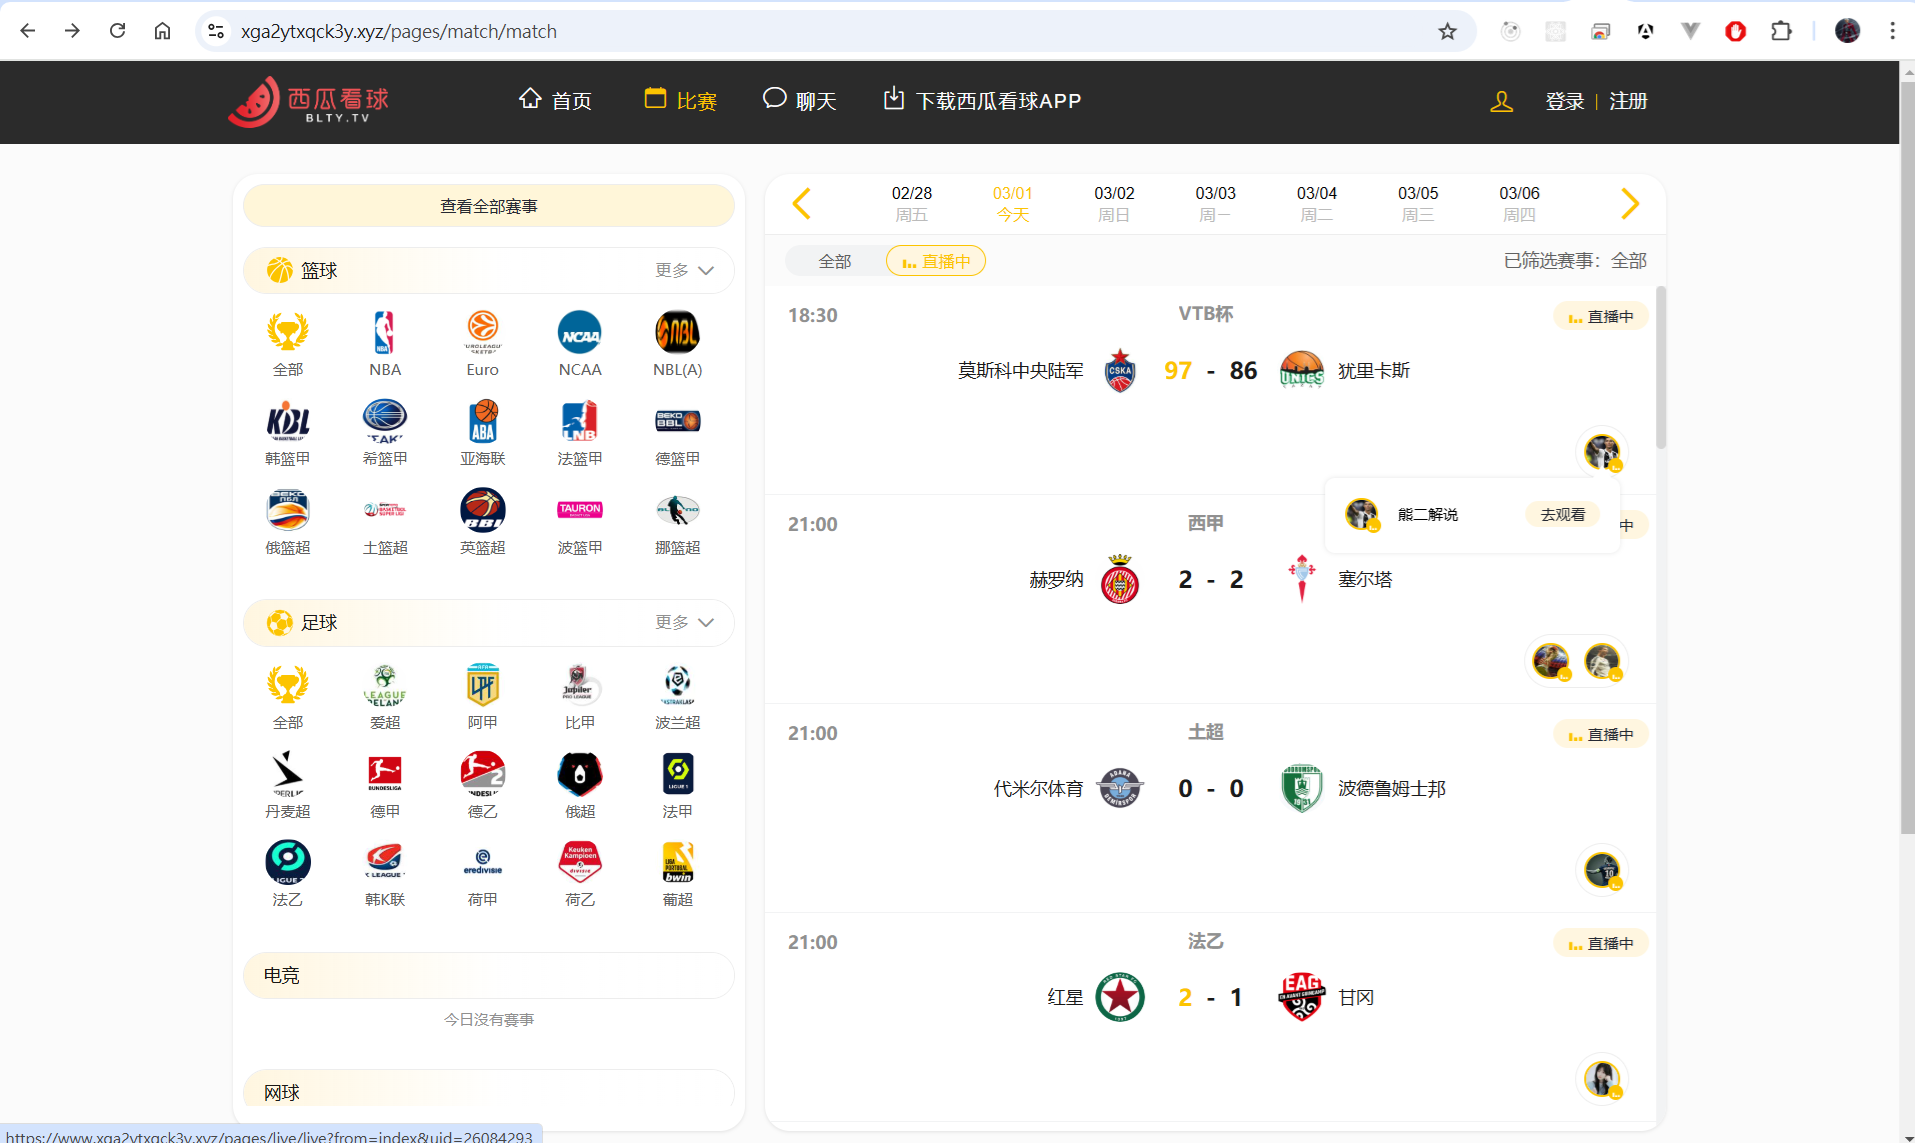
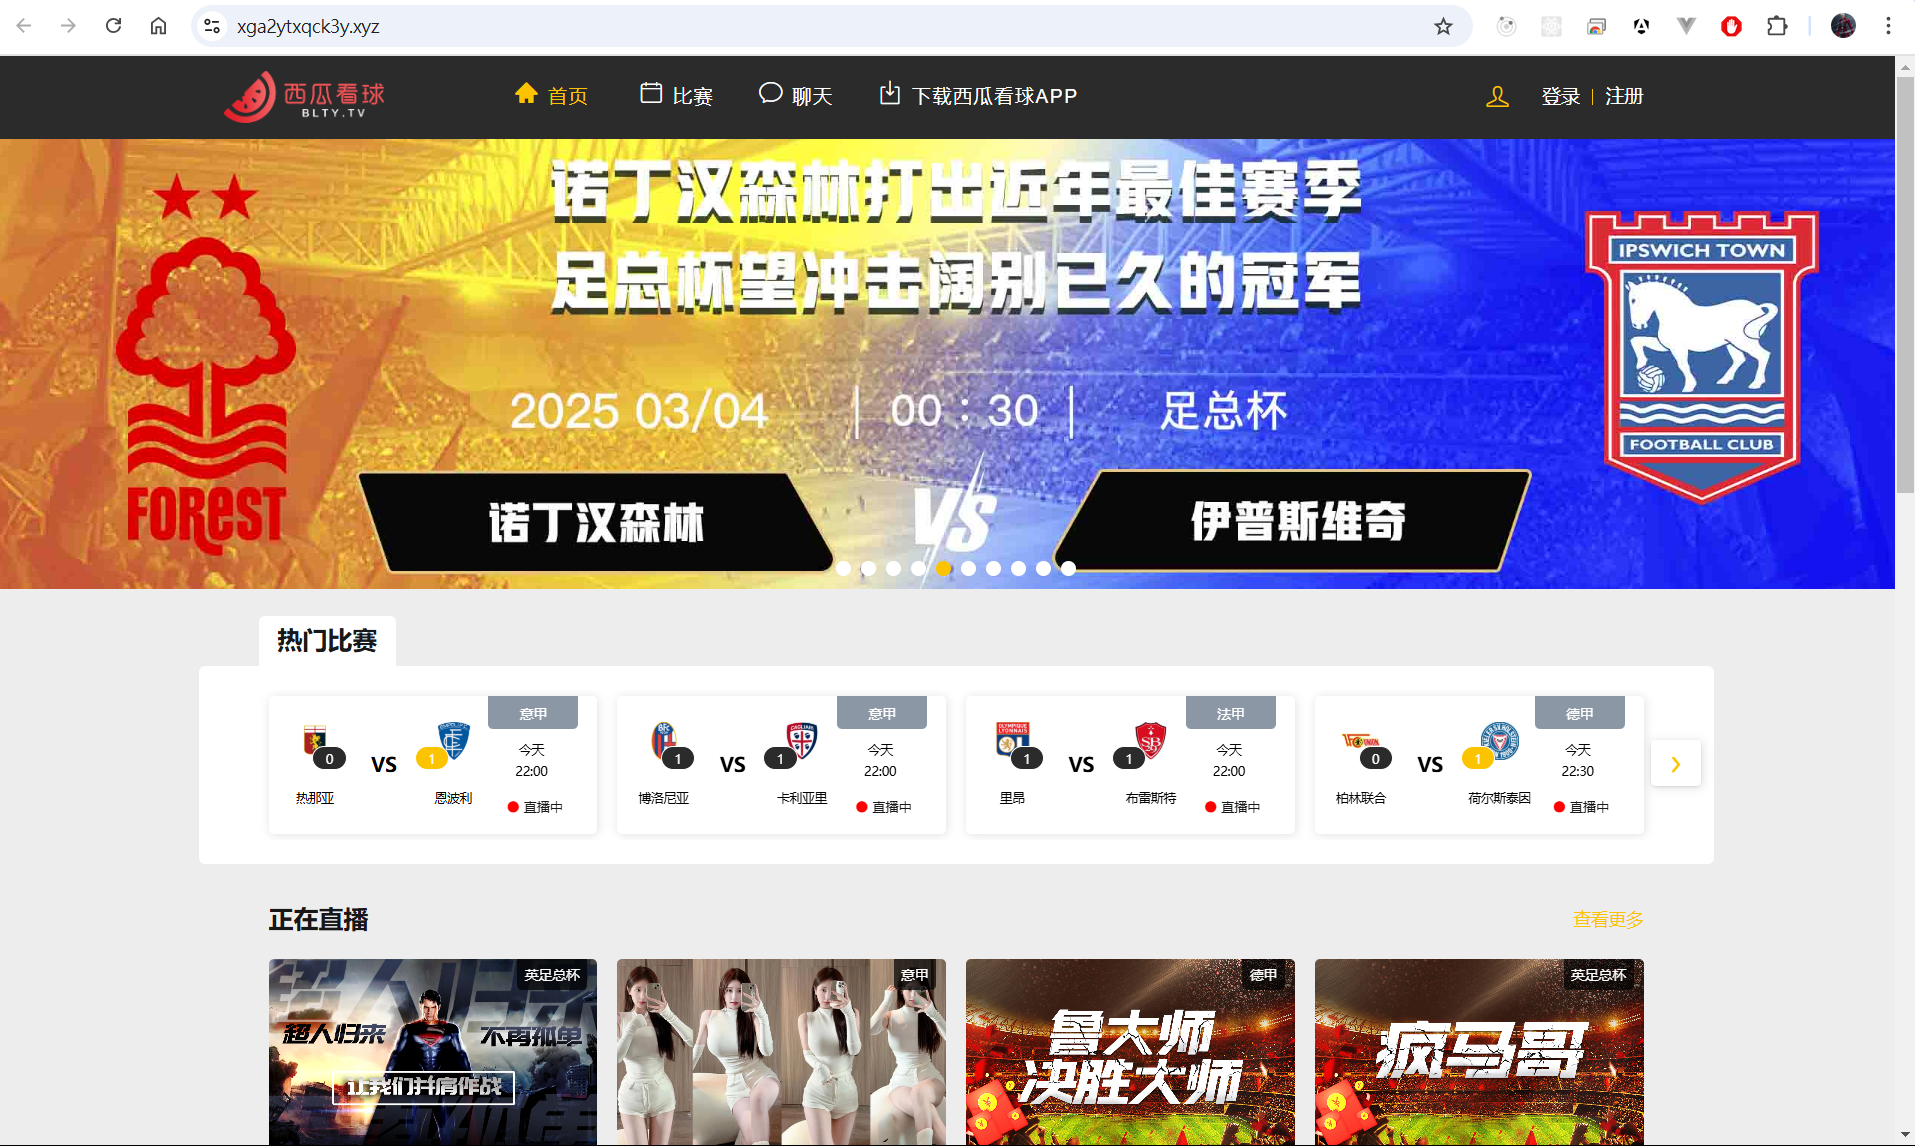
[update]:  sports-streaming-platform update

diff --git a/components/Home/Experience/Work.js b/components/Home/Experience/Work.js
@@ -107,15 +107,26 @@ const EXPERIENCE_DATA = [
     describe: '維護體育賽事直播平台。',
     onLine: [
       {
+        webUrl: 'https://www.xga2ytxqck3y.xyz/',
+        name: '西瓜看球(PC版)'
+      },
+      {
+        webUrl: 'https://m.xga2ytxqck3y.xyz/',
+        name: '西瓜看球(手機版、android版、ios書籤版)'
+      },
+      {
         webUrl: 'https://www.sgss2.com/',
         name: '松果賽事(PC版)'
       },
       {
         webUrl: 'https://m.sgss2.com/',
-        name: '松果賽事(手機版、android版、ios書籤版)',
+        name: '松果賽事(手機版、android版、ios書籤版)'
+      },
+      {
         summary: '本專案並無RWD、android版為uni-app開發。',
-        responsible: '新增及維護既有功能，前端api資料快取，開發團隊共用組件。'
-        // describeLink: '/matsu360'
+        responsible:
+          '適用換皮之架構調整、新增及維護既有功能，前端api資料快取，開發團隊共用組件。',
+        describeLink: '/sports-streaming-platform'
       }
     ]
   },

diff --git a/pages/sports-streaming-platform.js b/pages/sports-streaming-platform.js
@@ -30,14 +30,16 @@ const styles = {
     paddingBottom: '8px'
   },
   SportsStreamingPlatformScreenshotPc: {
-    // flex: 1,
+    flex: 1,
     width: '530px',
-    height: '400px'
+    // height: '400px',
+    height: 'auto'
   },
   SportsStreamingPlatformScreenshotM: {
     // flex: 1,
     width: '200px',
-    height: '400px'
+    // height: '400px',
+    height: 'auto'
   }
 };
 
@@ -55,7 +57,7 @@ function SportsStreamingPlatform() {
       <p className={classes.SportsStreamingPlatformTitle}>體育賽事直播平台</p>
       <div className={classes.SportsStreamingPlatformTitleLink}>
         <a
-          href="https://www.xga2ytxqck3y.xyz/pages/match/match"
+          href="https://www.xga2ytxqck3y.xyz/"
           target="_blank"
           rel="noreferrer noopenner"
         >
